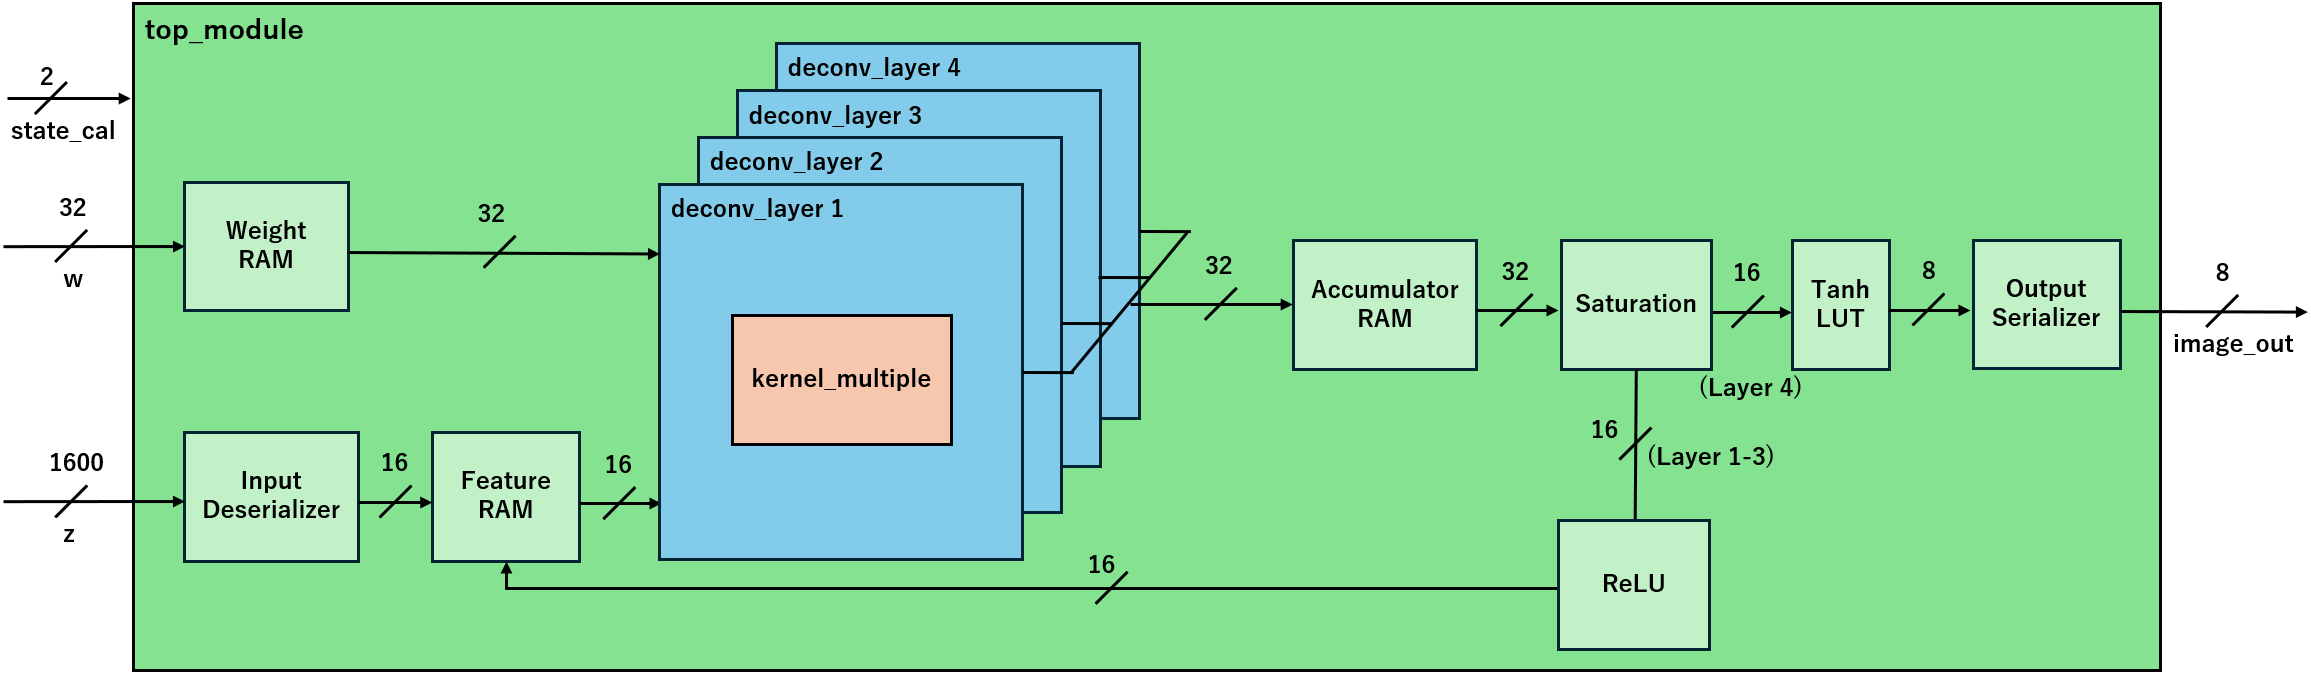
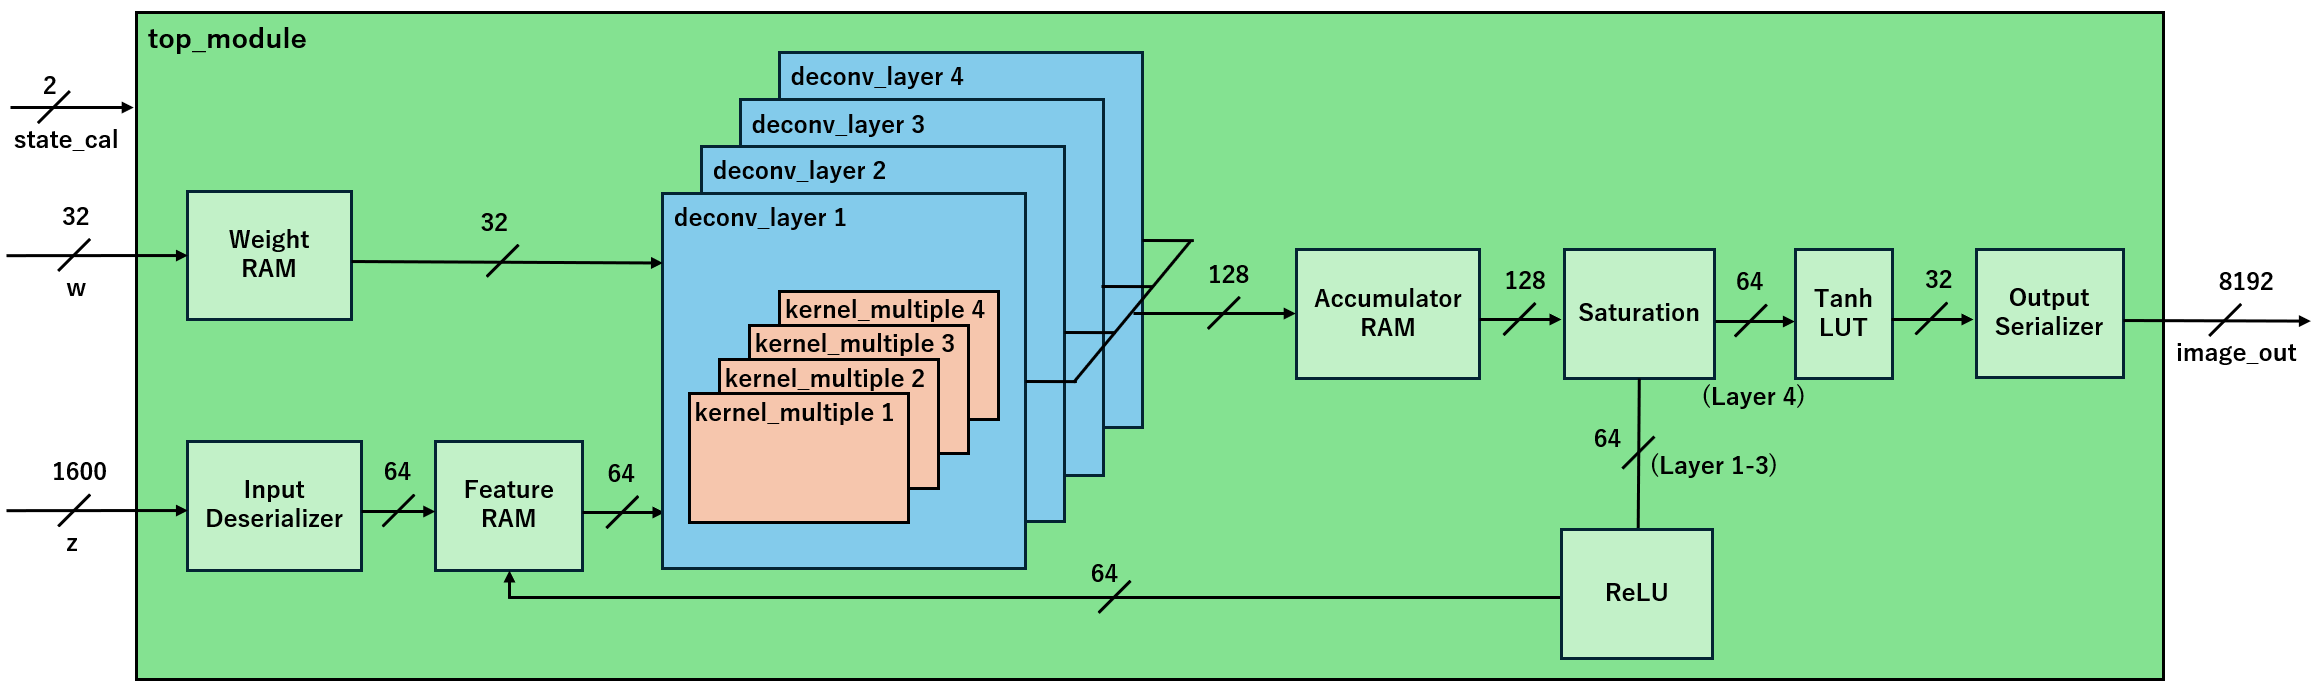
RELUnoSAIRIYOU

diff --git a/5th.tex b/5th.tex
@@ -1,5 +1,5 @@
 \clearpage
-\section{使用機器について+}
+\section{使用機器について}
 本システムのハードウェア実装には、AMD $\rm{Zynq^{TM}}$ $\rm{UltraScale+^{TM}}$ MPSoC ZCU104 Evaluation Kitを用いた\cite{amd_ug1267_zcu104}。また、AMDの提供するPython productivity for Zynq(PYNQ)\cite{amd_pynq}と呼ばれるオープンソースプロジェクトを活用し、ブラウザ上からJupyter Notebookを通じてFPGAボードを動作させるシステムを構築した。本節では使用機器についての解説と仕様説明を行う。
 
 \subsection{Zynq UltraScale MPSoCの概要}
@@ -131,44 +131,44 @@ Input signal concatenator, Output signal concatenatorはそれぞれ図\ref{fig:
     \label{fig:hierarchy_dataflow}
 \end{figure*}
 
-本システムにおけるGenerator回路は、画像生成のための大規模な転置畳み込み演算を効率的に実行するため、明確な役割分担を持つ複数のモジュールによる階層構造を採用している。計算モジュールの全体階層構造および、各メモリと演算コア間の詳細なデータフローを\fref{fig:hierarchy_dataflow}に示す。
+本システムにおけるGenerator回路は、画像生成のための大規模な転置畳み込み演算を効率的に実行するため、明確な役割分担を持つ複数のモジュールによる階層構造を採用している。また、データ転送効率向上及び演算時間短縮の観点から、4つの演算ユニットkernel\_multipleによる並列処理を採用している。さらに、リソース削減の観点から、重み格納メモリWeight\_RAMの定期更新と内部メモリの循環を採用している。各メモリ帯域および演算コア間の詳細なデータフローを\fref{fig:hierarchy_dataflow}に示す。
 
 \subsubsection{主要モジュールの機能}
 \fref{fig:hierarchy_dataflow}に示した全体のデータフローを解説する前に、本項ではシステムを構成する主要な8つのハードウェアモジュールの役割について定義する。
 \begin{enumerate}
     \item \textbf{Input\_Deserializer}:
-    外部から1クロックで一括して供給される100次元のランダムデータ（16bit $\times$ 100要素）を受け取るインターフェースである。本モジュールは、1600bitの並列データを16bit単位に分割し、それぞれ演算用の16bit幅のFeature\_RAMに順次転送する。
+    外部から1クロックで一括して供給される100次元のランダムデータ（16bit $\times$ 100要素）を受け取るインターフェースである。1600bitの並列データを、本システムの演算単位である64bit（16bit $\times$ 4要素）ずつに分割してFeature\_RAMへ順次転送する。
 
     \item \textbf{Feature\_RAM / Weight\_RAM}:
-    演算に必要なデータを保持するメモリである。Feature\_RAMは入力特徴マップ（16bit）を保持し、Weight\_RAMは学習済みの重みパラメータを保持する。特にWeight\_RAMでは、データ転送効率向上の観点から、$4 \times 4$のカーネルのうち$2 \times 2$のカーネル要素（4つ）を1つのアドレスに集約して保持する仕様にした。そのため、8bitの重みデータを4つ結合した32bitパケットとして管理する。
+    演算に必要なデータを保持するメモリである。Feature\_RAMは入力特徴マップを保持し、Weight\_RAMは学習済みの重みパラメータを保持する。4要素分の並列処理に対応するため、Feature\_RAMは64bit幅（16bit $\times$ 4要素）で構成されている。Weight\_RAMは、1クロックごとに8bitの重みが4つまとめて転送されてくるので、32bit幅（8bit $\times$ 4要素）を採用している。
 
     \item \textbf{deconv\_layer}:
-    本システムの演算の中核を担うモジュールである。第1層から第4層までの転置畳み込み演算を担当し、メモリからデータを読み出して積和演算を実行する。
+    本システムの演算の中核を担うモジュールであり、内部に4基の演算コア（kernel\_multiple 1～4）を実装している。第1層から第4層までの転置畳み込み演算を担当し、メモリからデータを読み出して積和演算を実行する。
 
     \item \textbf{Accumulator\_RAM}:
-    積和演算の途中経過を保持する32bit精度の累積加算用メモリである。
+    積和演算の途中経過を保持する累積加算用メモリである。演算過程におけるオーバーフローを防止するため、1要素あたり32bit幅を採用した。本設計ではdeconv\_layer内の4基の演算コアからの出力を同時に受け入れるため、128bit幅（32bit精度 $\times$ 4要素）を確保している。
 
     \item \textbf{Saturation}:
-    Accumulator\_RAMから読み出された32bitの演算結果に対し、飽和演算を行いながら16bit幅へ丸め処理を行うモジュールである。
-
+    Accumulator\_RAMから読み出された128bitの演算結果に対し、飽和演算を行いながら64bit幅へ丸め処理を行うモジュールである。
+    
     \item \textbf{ReLU}:
     中間層（第1～3層）において使用される活性化関数モジュールである。負の値を0にする非線形処理を行う。
 
     \item \textbf{Tanh\_LUT}:
-    最終層（第4層）において使用される活性化関数モジュールである。双曲線正接関数の値を格納したルックアップテーブルを参照することで、複雑な非線形計算を回避しつつ、データを画像の画素値に適した8bit範囲へ変換する。
+    最終層（第4層）において使用される活性化関数モジュールである。双曲線正接関数の値を格納したルックアップテーブルを参照することで、複雑な非線形計算を回避しつつ、データを画像の画素値に適した32bit範囲（8bit $\times$ 4要素）へ変換する。
 
     \item \textbf{Output\_Serializer}:
-    最終的な生成画像を外部へ出力するインターフェースである。並列データを1画素ずつ直列化し、image\_outとして出力する。
+    最終的な生成画像を外部へ出力するインターフェースである。並列データを1画素ずつ直列化し、image\_out（8bit $\times$ 32 $\times$ 32画素 ＝ 計8,192bit）として出力する。
 \end{enumerate}
 
 \subsubsection{全体のデータフロー}
 前項で定義したモジュール群は、最上位階層であるtop\_moduleによって統合管理され、データは以下のフローに従って処理される。
 
-まず、外部より供給さランダム入力$z$は、Input\_Deserializerによって個別に切り分けられ、Feature\_RAMに格納される。その後、重み値$w$もWeight\_RAMにロードされる。
+まず、外部より供給されたランダム入力$z$は、Input\_Deserializerによって個別に切り分けられ、Feature\_RAMに格納される。その後、重み値$w$もWeight\_RAMにロードされる。
 
-演算フェーズでは、各層に対応するdeconv\_layerが順次起動される。deconv\_layerは、Feature\_RAMおよびWeight\_RAMから必要なデータを読み出し、内部演算コアkernel\_multipleへ供給する。演算された積和結果は、Accumulator\_RAMに対して順次加算され、畳み込み結果が形成される。
+演算フェーズでは、各層に対応するdeconv\_layerが順次起動される。deconv\_layerは、Feature\_RAMおよびWeight\_RAMから必要なデータを読み出し、内部演算コアkernel\_multipleへ供給する。kernel\_multipleでは、1クロックで4要素分の積和演算が実行される。演算された積和結果は、Accumulator\_RAMに対して順次加算され、畳み込み結果が形成される。
 
-1層分の演算が完了すると、データはAccumulator\_RAMから読み出され、Saturationで16bitに圧縮される。その後、中間層の場合は、データは活性化関数ReLUを経て、次層の入力特徴マップとして再びFeature\_RAMへ書き戻される。
+1層分の演算が完了すると、データはAccumulator\_RAMから読み出され、Saturationで16bitに圧縮される。その後、中間層の場合は、データは通信部を介さず直接ReLUへ送られ、次層の入力特徴マップとして再びFeature\_RAMへ書き戻される。
 一方、最終層の場合、データはTanh\_LUTに入力され、画素値として整形された後にOutput\_Serializerを介して画像データimage\_outとして外部へ出力される。
 
 このように、層によってデータの行き先を切り替える構成をとることで、限られた回路リソースを有効活用しながら、スムーズな処理を実現している。
@@ -193,17 +193,17 @@ Input signal concatenator, Output signal concatenatorはそれぞれ図\ref{fig:
 
     \item \textbf{入力値の格納待機（Wait 1）}: Load\_Inputから来た場合は、全データの格納が完了するまで待機する。Move\_Dataから来た場合は、Feature\_RAMに対して全データの転送が完了するまで待機する。
 
-    \item \textbf{重み値のロード（Load\_Weights）}: 外部からのstart\_w信号がHighになっている期間、ステートマシーンは毎クロック32bit幅の重み値をそのままWeight\_RAMに格納する。
+    \item \textbf{重み値のロード（Load\_Weights）}: 外部からのstart\_w信号がHighになっている期間、ステートマシーンは毎クロック32bit幅の重み値をそのままWeight\_RAMに格納する。本フェーズは1出力チャネルの演算が終わるたびに繰り返し実行される。
     
     \item \textbf{重みロード待機（Wait 2）}: start\_wがLowになり、データの転送期間が終了するまで待機する。
 
-    \item \textbf{チャネル演算実行（Compute\_Channel）}: deconv\_layerに対して開始信号startを発行し、1出力チャネル分の積和演算を実行する。
+    \item \textbf{チャネル演算実行（Compute\_Channel）}: deconv\_layerに対して開始信号startを発行し、4つの演算コアを並列動作させ、1出力チャネル分の積和演算を実行する。
 
     \item \textbf{演算待機（Wait 3）}: deconv\_layerからの完了通知doneを受信するまで待機する。
     
     \item \textbf{チャネルループ判定（Check\_Loop 1）}: 同一層内の演算継続可否を判定する。
     \begin{itemize}
-        \item \textbf{チャネル継続}: 未計算の出力チャネルが残っている場合、start\_w信号に従い、次の重みをロードする。
+        \item \textbf{チャネル継続}: 未計算の出力チャネルが残っている場合、start\_w信号に従い、次の重みをロードしてWeight\_RAMを更新する。
         \item \textbf{層完了}: 層内の全チャネル計算が完了している場合、完了信号layer\_doneに従い、次の判定ステートへ移行する。
     \end{itemize}
 
@@ -213,7 +213,7 @@ Input signal concatenator, Output signal concatenatorはそれぞれ図\ref{fig:
         \item \textbf{全完了（最終層）}: 第4層の演算が完了している場合、完了信号all\_layers\_doneに従い、Serialize\_Outへ遷移する。
     \end{itemize}
 
-    \item \textbf{データ更新（Move\_Data）}: Accumulator\_RAMにある演算結果を1クロックごとに読み出し、SaturationおよびReLU活性化関数を通してFeature\_RAMへ書き戻す。その後は、次層の重みをロードして演算を行う。
+    \item \textbf{データ更新（Move\_Data）}: Accumulator\_RAMにある演算結果を1クロックごとに読み出し、SaturationおよびReLU活性化関数を通してFeature\_RAMへ書き戻す。この時、外部は介さない。その後は、次層の重みをロードして演算を行う。
 
     \item \textbf{最終出力（Serialize\_Out）}: Accumulator\_RAMから演算結果を読み出し、SaturationとTanh\_LUT、Output\_Serializerを通して、出力用レジスタimage\_outに格納される。全画素の格納が完了した時点で、画像データ全体がまとめて外部へ出力される。
 \end{enumerate}
@@ -307,8 +307,21 @@ kernel\_multiple内部では、上位のControllerによって送られてきた
 
 \section{FPGA実装の中で工夫した点}
 本章では特にFPGA実装を行うにあたって工夫した点についてまとめる。
+\subsection{RAMの再利用}
+\begin{figure}[h]
+	\centering
+	\includegraphics[width=1.0\linewidth]{figure/ram_flow.png}
+	\caption{RAM再利用に注目した全体アーキテクチャ}
+	\label{fig:ram_flow}
+\end{figure}
+本システムでは、RAMを最大限に活用したアーキテクチャとなっている。
+図\ref{fig:ram_flow}に示す通り、入力データを保持していたFeature\_RAMの出力は、演算コアを経てAccumulator\_RAMへと蓄積される。1層分の演算が完了すると、Accumulator\_RAM内のデータはSaturationとReLUを経て、次層の入力データとして再びFeature\_RAMへ書き戻される 。このように、入力特徴マップ用メモリと蓄積用メモリ間でデータを循環させることで、層の数に比例したメモリ消費を抑制している。Weight\_RAMには、全層の重みパラメータを一括で保存しない。上位ステートマシンの制御に基づき、現在計算している「1出力チャネル分」の重みのみを随時外部メモリからロードして再利用する方式をとっている。
+
 \subsection{Block RAMの制限を考慮した回路構成}
-本システムのアーキテクチャとして、9章で示した計算手順をとった理由について詳しい説明を行う。仮に本システムの計算に用いるパラメータや入力要素をすべてFPGAボードのBlock RAMに保存する形式をとった場合のメモリ使用量の概算は表\ref{tb:memory-max}のようになる。なお、使用したZCU104に搭載されるBlock RAM１つにつき36kBのメモリ量を持つことをもとにして計算を行った。この時、実装に必要なBlock RAMの個数は7,943個となるため表\ref{tb:pl}に示したZCU104に搭載されている312個のBlock RAMでは到底賄うことができないリソース量であることがわかる。そこで私たちのチームでは、PL部に１層の計算の中でも特に１出力要素に必要な重みのみを保存し、これを随時更新することで演算を行うアーキテクチャを設計した。このようなアーキテクチャをとることによって図\ref{fig:cal_tejyun}に示したweight-packed分の重みのみをPL側のRAMに保存すればよいこととなるため、消費するBlock RAMは表\ref{tb:memory-reduce}のようになる。表\ref{tb:memory-reduce}より、Block RAMのリソース消費量は347個にまで削減することが可能である。しかしながら、表\ref{tb:pl}に示したようにZCU104に搭載されたBlock RAMは312個であるため、依然としてPL部に実装できないことが推測された。そこで私たちは次に説明するRAMの再利用を行うことによって更なるメモリ消費量の削減を行った。
+前述した計算手順をとった理由について詳しい説明を行う。仮に本システムの計算に用いるパラメータや入力要素をすべてFPGAボードのBlock RAMに保存する形式をとった場合のメモリ使用量の概算は表\ref{tb:memory-max}のようになる。なお、使用したZCU104に搭載されるBlock RAM１つにつき36kBのメモリ量を持つことをもとにして計算を行った。この時、実装に必要なBlock RAMの個数は7,943個となるため表\ref{tb:pl}に示したZCU104に搭載されている312個のBlock RAMでは到底賄うことができないリソース量であることがわかる。そこで私たちのチームでは、PL部に１層の計算の中でも特に１出力要素に必要な重みのみを保存し、これを随時更新することで演算を行うアーキテクチャを設計した。このようなアーキテクチャをとることによって図\ref{fig:cal_tejyun}に示したweight-packed分の重みのみをPL側のRAMに保存すればよいこととなるため、消費するBlock RAMは表\ref{tb:memory-reduce}のようになる。表\ref{tb:memory-reduce}より、Block RAMのリソース消費量は347個にまで削減することが可能である。しかしながら、表\ref{tb:pl}に示したようにZCU104に搭載されたBlock RAMは312個であるため、依然としてPL部に実装できないことが推測された。そこで私たちは次に説明するRAMの再利用を行うことによって更なるメモリ消費量の削減を行った。
+\begin{comment}
+    本システムのアーキテクチャとして、9章で示した計算手順をとった理由について詳しい説明を行う。
+\end{comment}
 
 \begin{table}[h]
     \caption{メモリの最大使用量}
@@ -356,10 +369,11 @@ kernel\_multiple内部では、上位のControllerによって送られてきた
     重みパラメータは学習済みの8bit精度の値を基本単位としている。本設計ではデータ転送効率向上の観点から、$4 \times 4$のカーネルのうち$2 \times 2$のカーネル要素（4つ）を1つのアドレスに集約して保持する仕様にした。 そこで、4つの重み要素（8bit $\times$ 4）を単一のアドレスに集約した32bit幅を採用した。
     
     \item \textbf{Weight\_RAMのアドレス幅}: 
-    本システムでは全パラメータを一括で保持すると膨大なリソースを消費するため、出力を特定のチャネル数ごとに分割して演算を行う。本ネットワークにおいて入力チャネル数が最大となるのは第2層（512 ch）である。そこで、リソース制約と演算速度のバランスを考慮し、出力チャネルの分割単位を16とした。すると、重みメモリのアドレス幅は、入力チャネル数と出力チャネルの分割単位を掛け合わせた以下の式で導出できる。
-    \[ 512\,(\text{入力ch}) \times 16\,(\text{出力ch}) = 8,192\,\text{カーネル} \]
+    本システムでは全パラメータを一括で保持すると膨大なリソースを消費するため、出力を特定のチャネル数ごとに分割して演算を行う。本ネットワークにおいて入力チャネル数が最大となるのは第2層（512 ch）である。そこで、リソース制約と演算速度のバランスを考慮し、出力チャネルの分割単位を64とした。すると、重みメモリのアドレス幅は、入力チャネル数と出力チャネルの分割単位を掛け合わせた以下の式で導出できる。
+    \[ 512\,(\text{入力ch}) \times 64\,(\text{出力ch}) = 32,768\,\text{カーネル} \]
+    本設計では、演算効率化のためこれら4つの重み要素を1つのアドレスに集約して保持する。したがって、実際にWeight\_RAMに割り当てる必要なアドレス数は以下の通りとなる。
+    \[ 32,768\,\text{要素} \div 4\,(\text{集約数}) = 8,192\,\text{アドレス} \]
     この $8,192$ 個の要素を管理するためには $2^{13} = 8,192$ であることから、アドレス幅を 13bitと定義した。
-
 \end{enumerate}
 
 以上の議論から、PLで用いられるBlock RAM数は表\ref{tb:blockram_usage}のように表される。ZCU104に搭載されたBlock RAM数は312であるので、本構成によりハードウェア実装可能である設計に落とし込めているといえる。
@@ -593,7 +607,7 @@ tanhやFIFOといった容量の少ないRAMやROMを合わせて格納するこ
 \begin{figure*}[t]
     \centering
     % 並列化された演算コアの図を想定
-    \includegraphics[width=\textwidth, keepaspectratio]{figure/parallel_top.png}
+    \includegraphics[width=\textwidth, keepaspectratio]{figure/parallel_top_new.png}
     \caption{拡張された計算回路の構造}
     \label{fig:parallel_top}
 \end{figure*}
